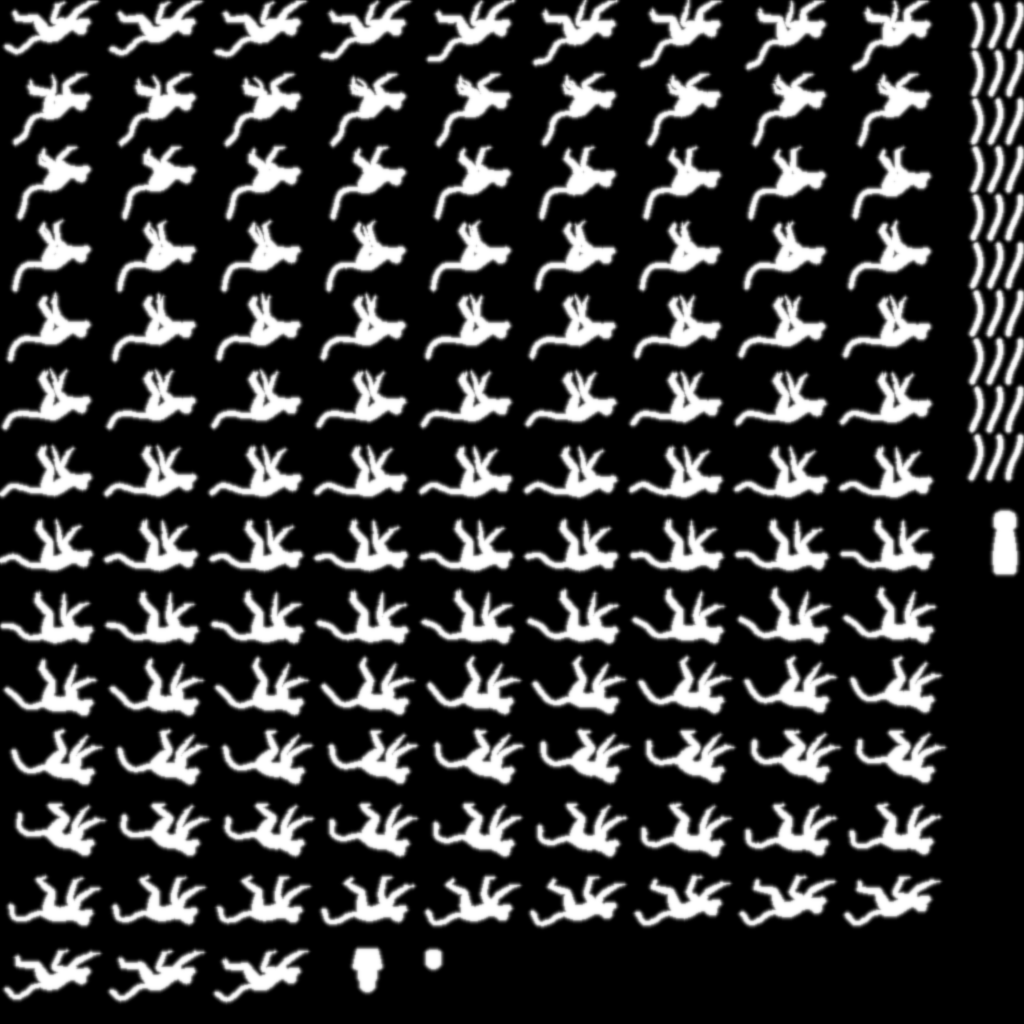
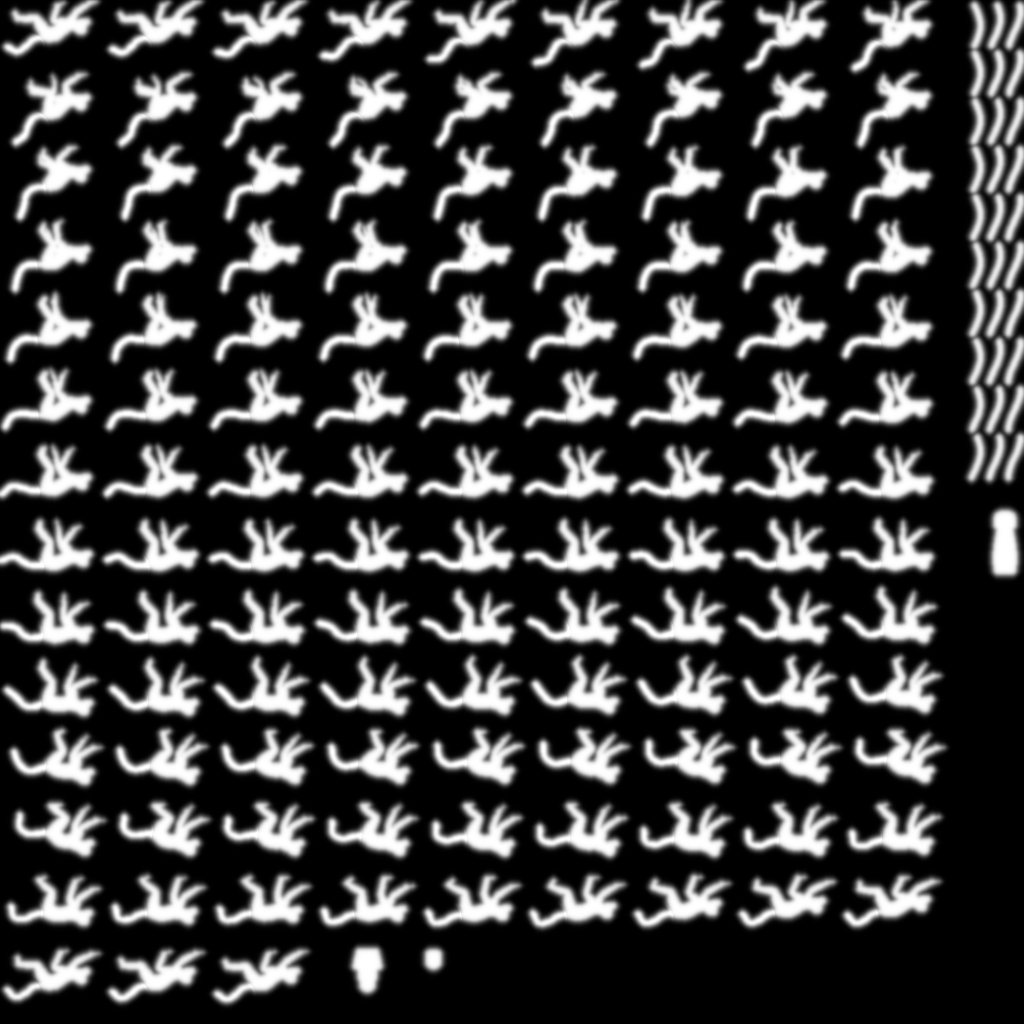
Working on lighting

Changed region(s): [[0.0, 0.0, 0.9375, 1.0], [0.9375, 0.0, 1.0, 0.5625]]

diff --git a/index.html b/index.html
@@ -95,7 +95,7 @@
           image_monkey.onload = async function() {
             var image_monkey_blurred = new Image();
             image_monkey_blurred.src = './monkey_anim_blurred.png'; 
-            image_monkey_blurred.onload() = function () {
+            image_monkey_blurred.onload = function () {
               gamestate.do_shader_stuff_and_constants(image_leaf,
                                                       image_monkey,
                                                       image_monkey_blurred,

diff --git a/src/gl_related.rs b/src/gl_related.rs
@@ -544,7 +544,7 @@ pub fn prepare_monkey(img: web_sys::HtmlImageElement,
     
         precision mediump float;
         uniform sampler2D monkey_image;
-        ubiform sampler2D monkey_image_blurred;
+        uniform sampler2D monkey_image_blurred;
         
         in vec2 v_texCoord;
         in vec2 v_texCoord_blur;
@@ -552,8 +552,8 @@ pub fn prepare_monkey(img: web_sys::HtmlImageElement,
         
         void main() {
             if (texture(monkey_image, v_texCoord).x > 0.5) {
-                vec4 from_blurred = texture(monkey_image_blurred, v_textCoord_blur);
-                outColor = vec4(1.0 - from_blurred.x, 1.0 - from_blurred.x, 0.0, 1.0);
+                float from_blurred = texture(monkey_image_blurred, v_texCoord_blur).x;
+                outColor = vec4((1.0 - from_blurred) * 1.9, (1.0 - from_blurred) * 1.7, (1.0 - from_blurred) * 1.3, 1.0);
             } else {
                 discard;
             }

diff --git a/src/tree.rs b/src/tree.rs
@@ -965,7 +965,7 @@ impl crate::GameState {
                 float a = - MIN_A_DIF * 2.0;
                 vec2 pos = screen_coord;
 
-                outColor = vec4(0.85, 0.9, 0.8, 1.0);
+                outColor = vec4(0.55, 0.6, 0.5, 1.0);
                 
                 for (uint i=0u; i < rectCount; i++) {{
                     if (pos.x < position_size[i].x ||

diff --git a/src/monkey_running.rs b/src/monkey_running.rs
@@ -1,8 +1,8 @@
 pub const MONKEY_START_X: f64 = 200.0;
 pub const MONKEY_START_Y: f64 = 1.0;
 const X_LIGHT_SOURCE: f64 = 0.0;
-const Y_LIGHT_SOURCE: f64 = 1.5;
-const MONKEY_LIGHT_SCALING_FACTOR: f64 = 1.02;
+const Y_LIGHT_SOURCE: f64 = 0.6;
+const MONKEY_LIGHT_SCALING_FACTOR: f64 = 1.003;
 
 pub struct MonkeyRunning {
     x_pos: f64,
